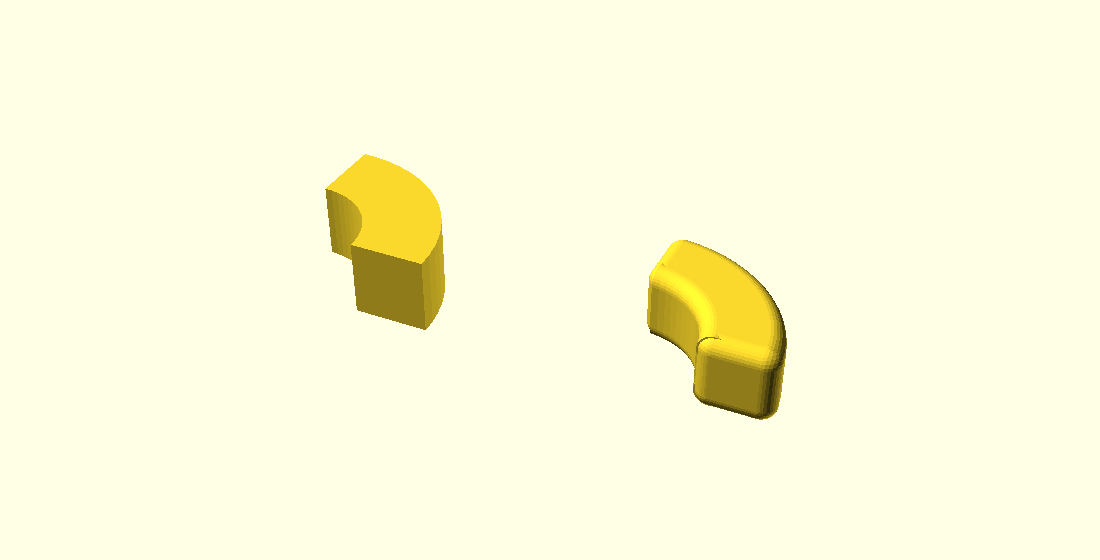
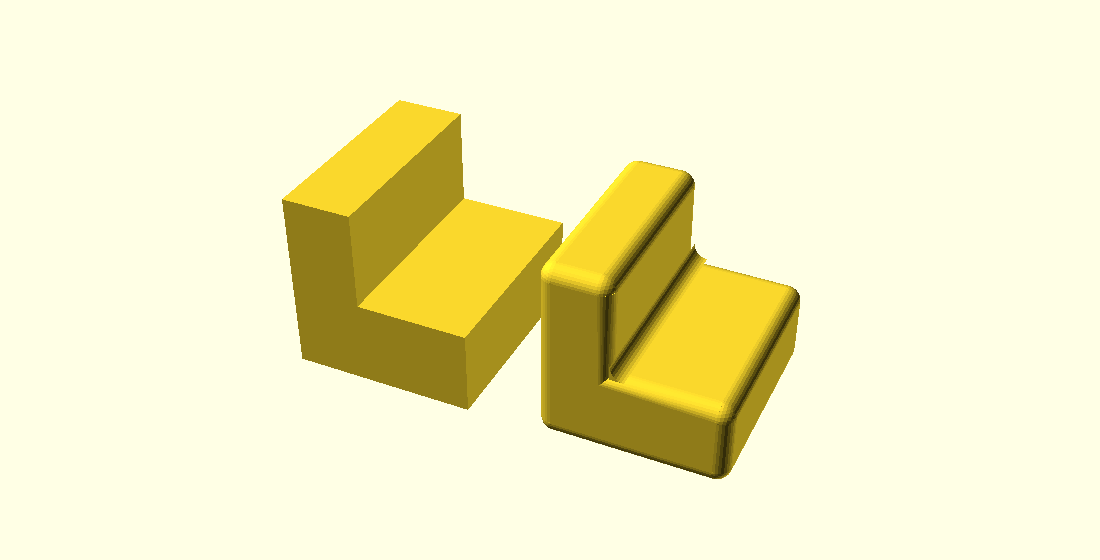
Show the shape a reader reaches for first, now that it works
The quickstart figure used a curved elbow, chosen only because a square L
bracket's outline round was being refused. That refusal is gone, so the figure
can be the shape the text already claims it is - an L bracket, sharp on the left
and blended on the right, with the inner bead along the reflex crease and the
reentrant corner of each end face rounded. The note explaining the substitution
goes with it.

The profile is extruded along y rather than x. Extruded along x the default
--viewall camera looks straight at the back of the tall slab, so the L reads as a
box with a nick in it and the reflex crease hides on the far side; along y the
same camera sees the profile.

Every figure re-rendered, and every one but this figure came back
byte-identical - which is the useful result, because it is what says the turn fix
changed no existing figure's geometry rather than leaving that to be assumed.
Counts and volumes were checked rather than eyeballed: the bare tool for the rib
on a plate is one piece of genus 1, a closed loop around the rib's base, and its
volume sits below a smooth sweep of the same ring because the corner cells are
hulls, not exact swept surfaces. That is the design, not a gap.

Getting to byte-identical took a correction the README had earned. It gave one
render command with one --imgsize and two exceptions, but the figures had been
composed at five different sizes, so re-rendering them all "as documented"
[…]

Changed region(s): [[0.2473, 0.1821, 0.7418, 0.85]]

diff --git a/fillet-pr/README.md b/fillet-pr/README.md
@@ -27,20 +27,53 @@ Every image here is rendered from the `.scad` beside it:
 
 ```sh
 openscad --backend=manifold --render --viewall --autocenter \
-         --imgsize=1100,620 --projection=p --colorscheme=Cornfield \
+         --imgsize=<W>,<H> --projection=p --colorscheme=Cornfield \
          -o fig-name.png fig-name.scad
 ```
 
-Two exceptions: `pr-body/fig-classify.png` is a preview render (drop `--render`),
-because the debug overlay is a cloud of disjoint marker cubes rather than a
-solid; and `doc-page/fig-brush-one-edge.png` uses `--imgsize=1200,400` to suit
-its three panels.
+**`--imgsize` is per figure and is not a detail.** `--viewall` fits the model to
+whatever canvas it is given, so a height chosen for one figure letterboxes
+another: render the three-panel figures at 620 tall and the panels shrink into a
+band of empty background. The sizes below are the ones each figure was composed
+at. Re-render with the figure's own size, not a single default — and check the
+pixel dimensions afterwards, because a wrong `--imgsize` produces a picture that
+is not obviously wrong on its own, only worse.
 
-Every image was last rendered against the tree at `b6e6bbec3`, the corner-cell
-rework. Re-render after any change to the builder, and check the piece count as
-well as the picture: a figure that cuts a model open can leave bead ends floating
-if its cutting box is not generous enough, which looks exactly like a tool
-shedding crumbs and is not.
+`pr-body/fig-classify` is also the one **preview** render — drop `--render` —
+because the debug overlay is a cloud of disjoint marker cubes rather than a solid.
+
+Then check the piece count as well as the picture: a figure that cuts a model open
+can leave bead ends floating if its cutting box is not generous enough, which
+looks exactly like a tool shedding crumbs and is not. Count the pieces, and
+measure them by **volume, not bounding box** — a bead's cross-section is the same
+`r` across however wide the brush is, so a bounding box cannot tell a 1 mm bead
+from a 6 mm one; volume can.
+
+Everything below was measured against the tree at `5121d87a5`, the fix for a
+spine that turns from one wall onto the next. One piece per panel, unless the
+panel is a marker cloud:
+
+| Figure | `--imgsize` | Pieces | What they are |
+|---|---|---|---|
+| `pr-body/fig-anatomy` | 1100,560 | 5 | two tool solids, plus the seated ball at three stations |
+| `pr-body/fig-classify` | 1100,620 | 225 | disjoint marker cubes, so a cloud is correct |
+| `pr-body/fig-corner` | 1100,560 | 2 | the bare tool for a cube — **one** piece, which is the figure's point — and the cube it is cut from |
+| `pr-body/fig-hard-cases` | 1200,520 | 3 | one per panel; the pocket's cutting box is deliberately oversize, see the note in the script |
+| `doc-page/fig-brush` | 1100,600 | 2 | the two brush variants |
+| `doc-page/fig-brush-one-edge` | 1200,400 | 3 | the three panels |
+| `doc-page/fig-fillet` | 1100,560 | 4 | untouched, both halves, convex only, concave only |
+| `doc-page/fig-min-angle` | 1100,560 | 2 | the two thresholds |
+| `doc-page/fig-tools` | 1100,560 | 8 | four bare tools in the back row, four composed in the front |
+| `wiki-page/fig-curved` | 1100,560 | 3 | the three curved cases |
+| `wiki-page/fig-quickstart` | 1100,560 | 2 | the bracket as written and the same one filleted |
+| `wiki-page/fig-selective` | 1100,600 | 1 | one cutaway part |
+
+Re-rendered at those sizes against `5121d87a5`, every figure but
+`wiki-page/fig-quickstart` comes back **byte-identical** to its render against
+`7cd6a9037`, and that one differs only because its `.scad` was rewritten. Nothing
+in the turn fix changed any existing figure's geometry, which is the check worth
+repeating: if a builder change is meant to be narrow, byte-identical renders are
+what says so.
 
 The figure scripts are also worth keeping as review material in their own right —
 each one is a small worked example with the reasoning in its header comment.

diff --git a/fillet-pr/pr-body/pr.md b/fillet-pr/pr-body/pr.md
@@ -160,8 +160,8 @@ they were rules:
 
 | Where | What |
 |---|---|
-| `FilletBuilder_test.cc` | 53 cases, 310 assertions — classification, chains, frames, brushes, the size gate, junctions, runout, debug markers |
-| `FilletCompare_test.cc` | 16 cases, 47 assertions — exact comparison against hand-written reference solids |
+| `FilletBuilder_test.cc` | 54 cases, 535 assertions — classification, chains, frames, brushes, the size gate, junctions, turns, runout, debug markers |
+| `FilletCompare_test.cc` | 16 cases, 63 assertions — exact comparison against hand-written reference solids |
 | `tests/data/scad/3D/features/` | 5 regression models with committed baselines across preview, render, render-cgal, render-manifold, throwntogether and the `.csg` dump |
 
 The comparison tests are the interesting half. Where a blend has a closed form,
